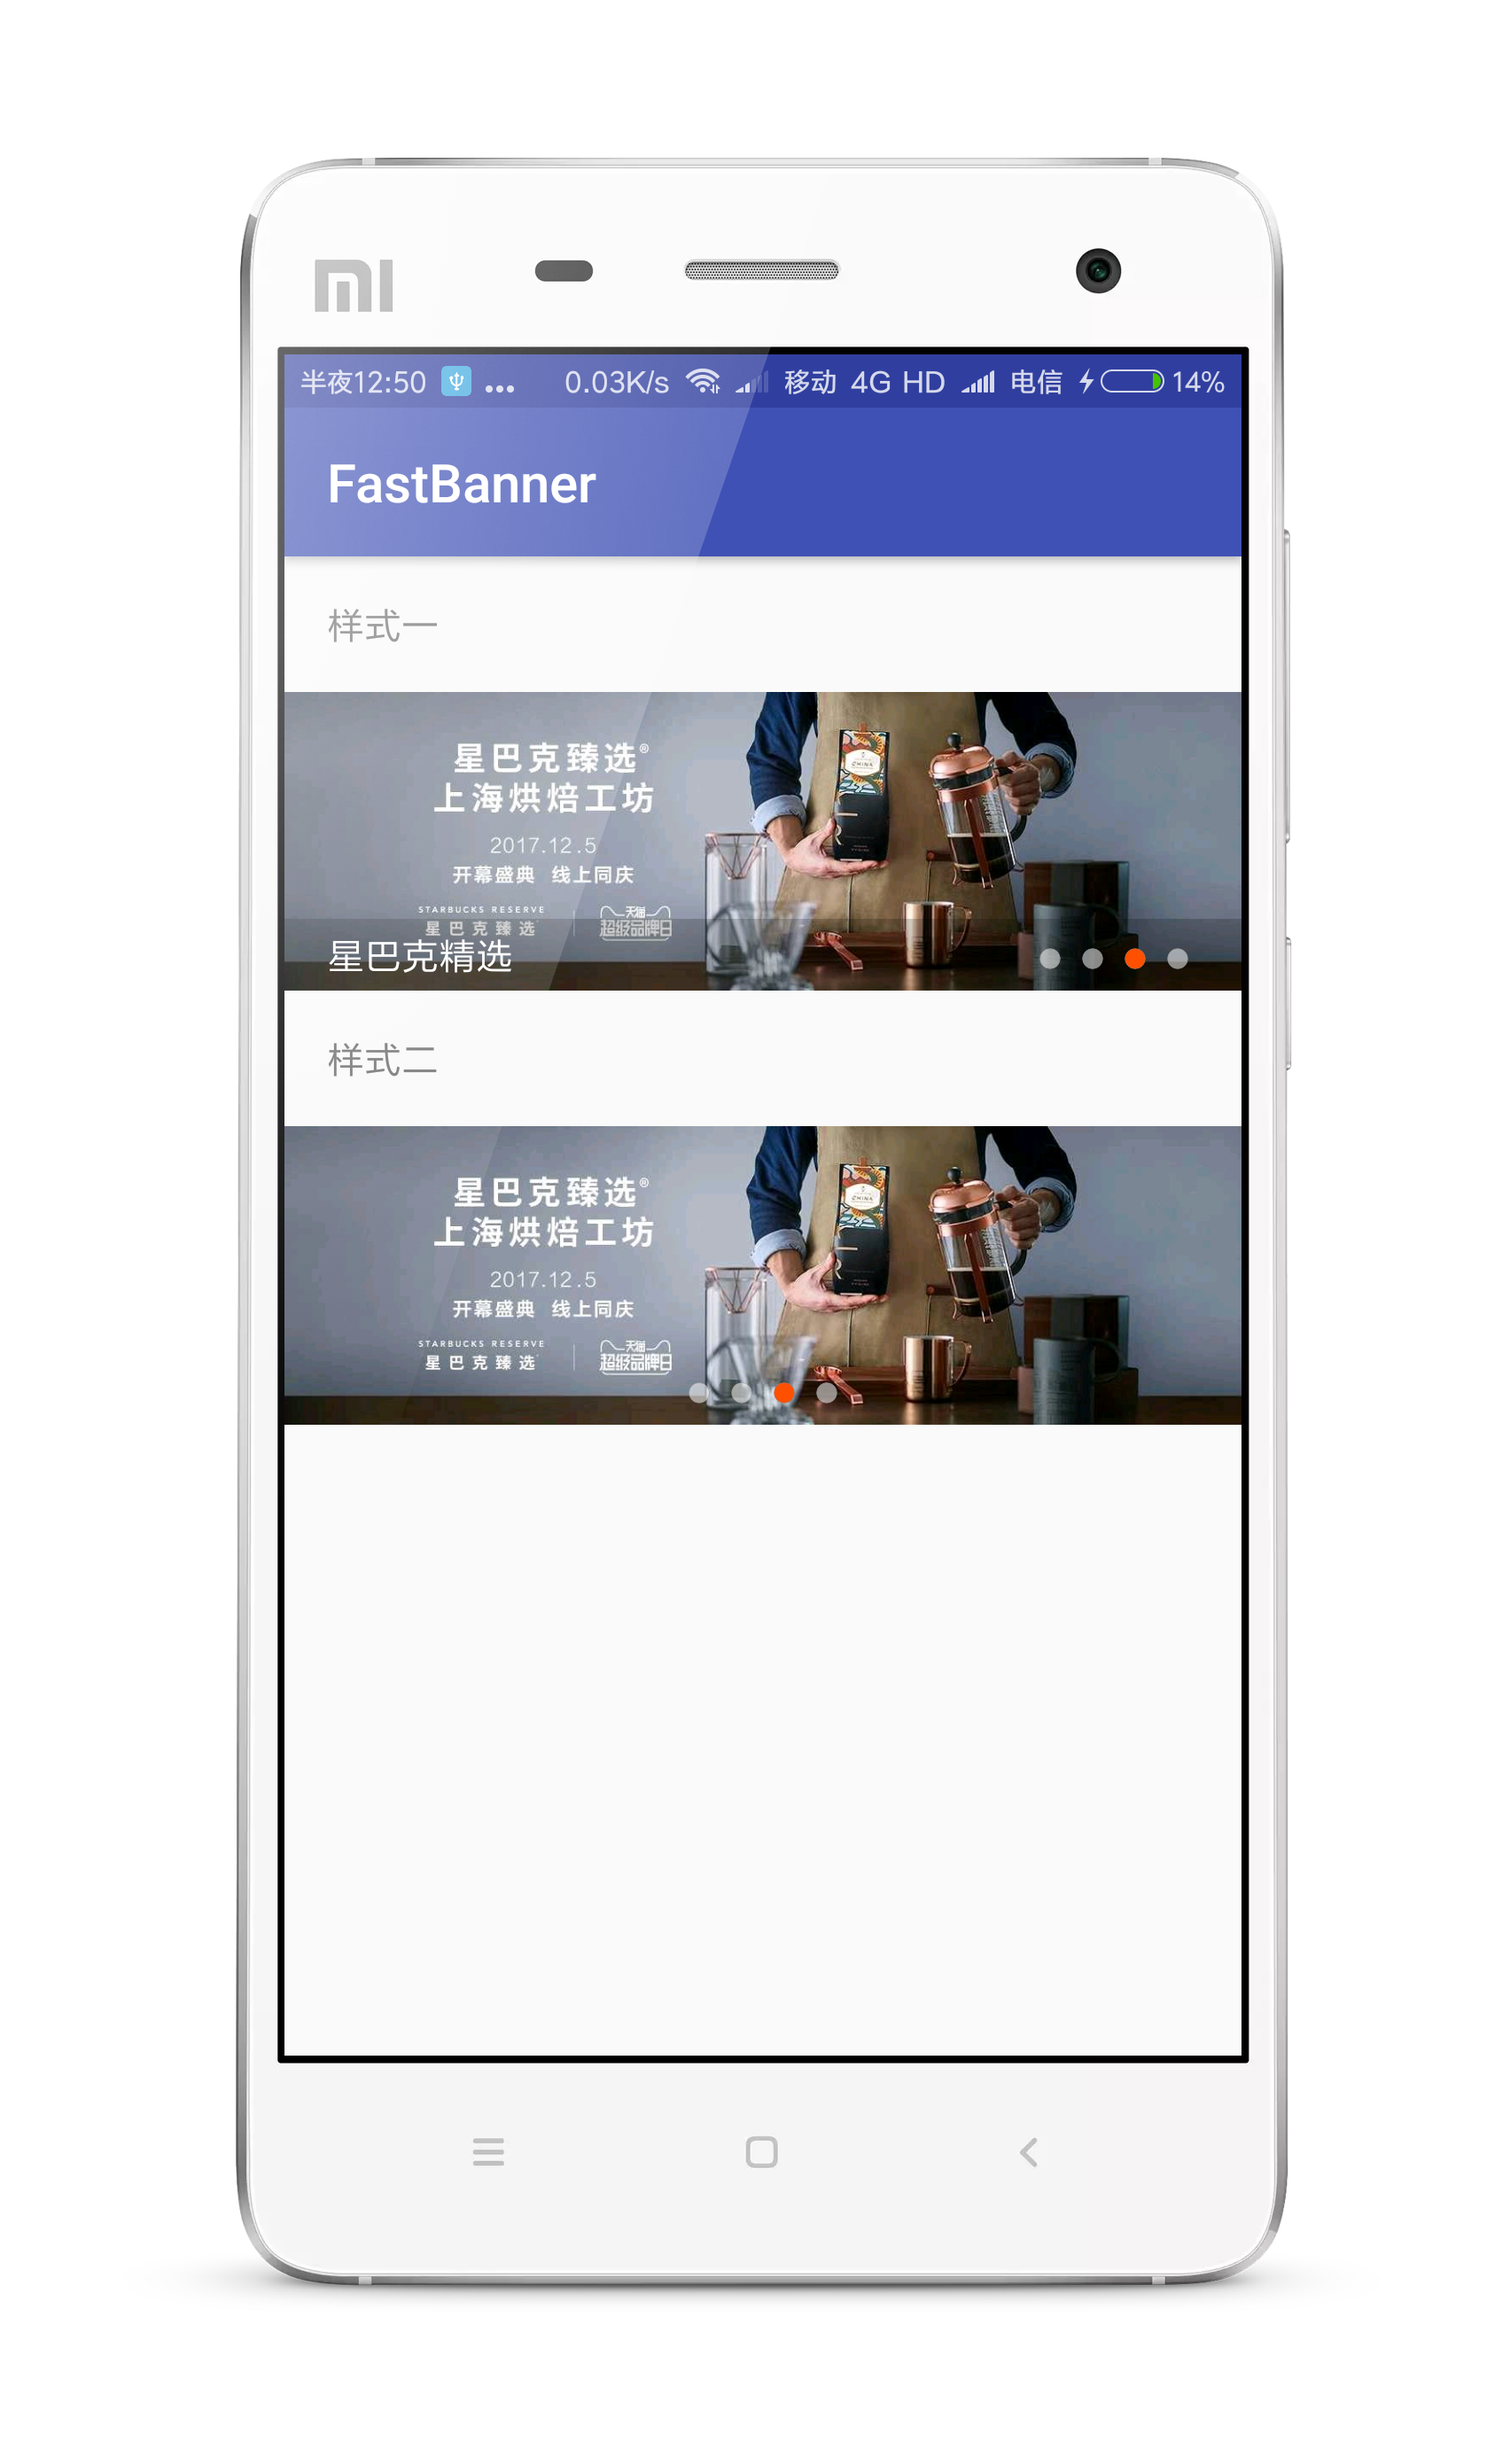
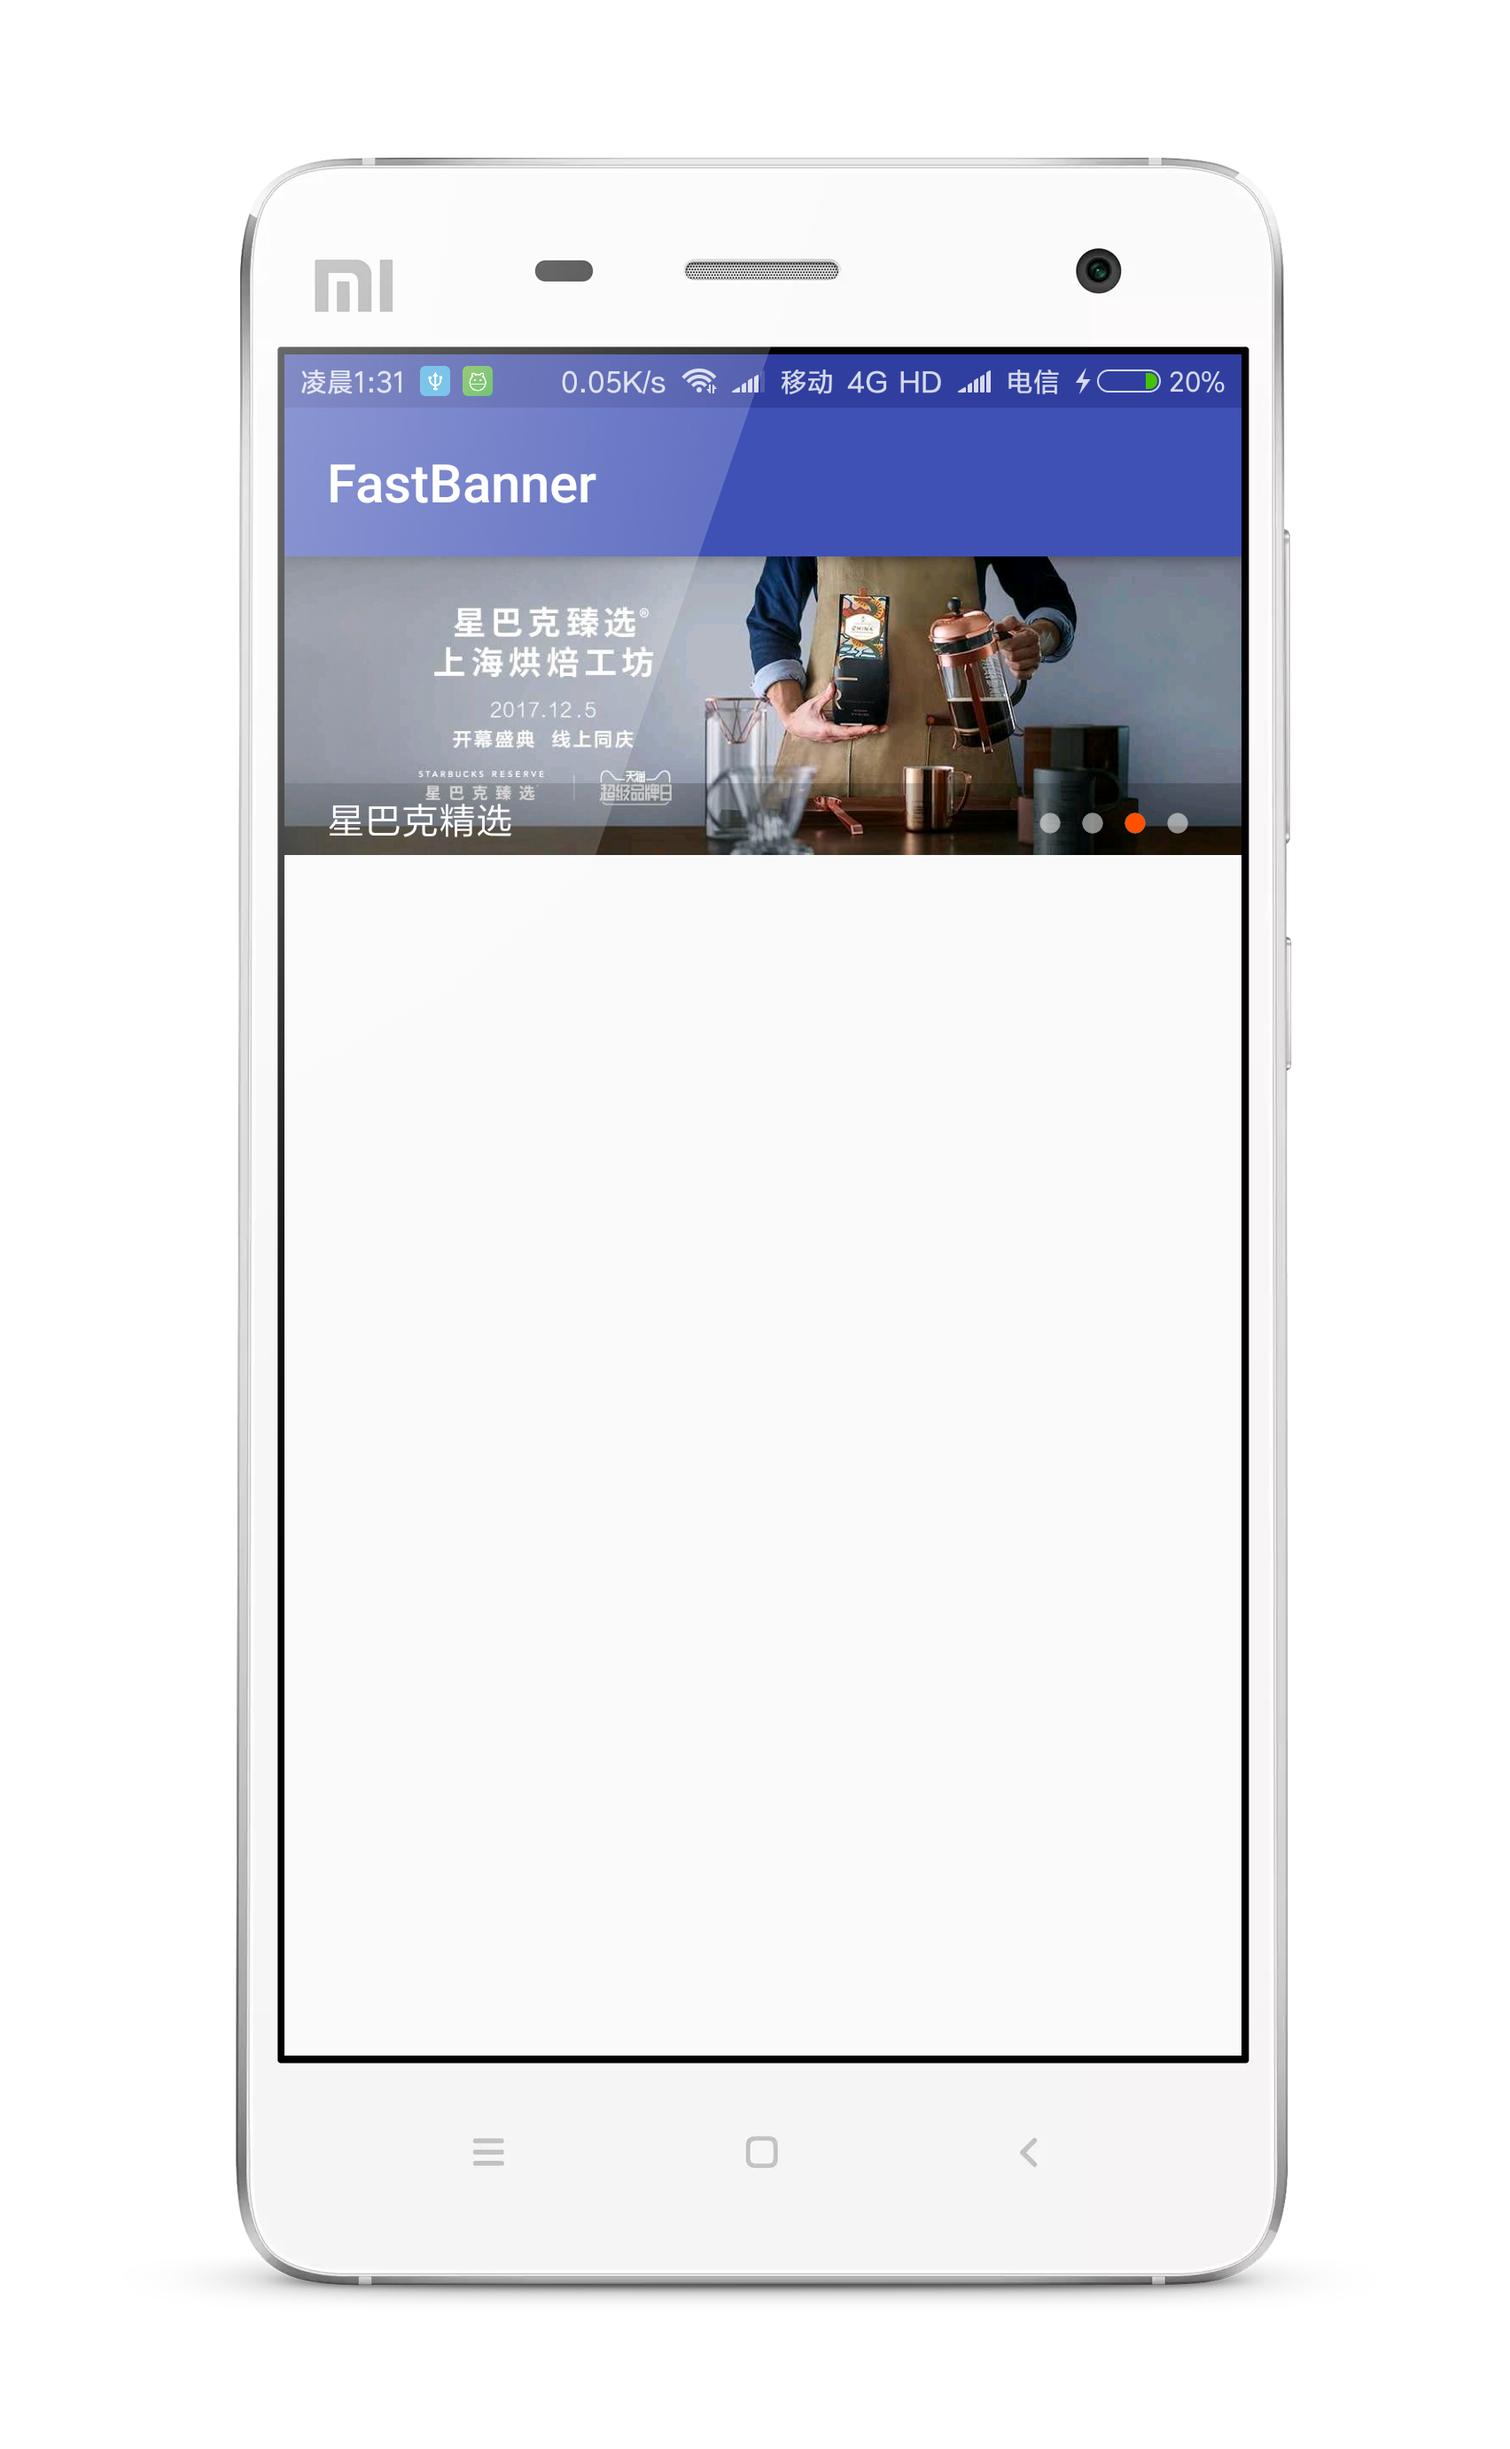
fastbanner

Changed region(s): [[0.1866, 0.2178, 0.8398, 0.5912], [0.2799, 0.1245, 0.3421, 0.1867], [0.4043, 0.1556, 0.4354, 0.1867]]

diff --git a/app/src/main/java/com/handsome/fastbanner/MainActivity.java b/app/src/main/java/com/handsome/fastbanner/MainActivity.java
@@ -1,5 +1,6 @@
 package com.handsome.fastbanner;
 
+import android.content.Intent;
 import android.support.v7.app.AppCompatActivity;
 import android.os.Bundle;
 import android.util.Log;
@@ -16,76 +17,17 @@ import java.util.List;
 
 public class MainActivity extends AppCompatActivity {
 
-    private List<String> url_list;
-    private List<String> title_list;
-
     @Override
     protected void onCreate(Bundle savedInstanceState) {
         super.onCreate(savedInstanceState);
         setContentView(R.layout.activity_main);
+    }
 
-        url_list = new ArrayList<>();
-        url_list.add("https://img.alicdn.com/imgextra/i4/100/TB2vKF0clLN8KJjSZPhXXc.spXa_!!100-0-yamato.jpg_q50.jpg");
-        url_list.add("https://img.alicdn.com/imgextra/i2/65/TB2qMK_b8bM8KJjSZFFXXaynpXa_!!65-0-luban.jpg_q50.jpg");
-        url_list.add("https://img.alicdn.com/imgextra/i3/174/TB2EMewf3fH8KJjy1zcXXcTzpXa_!!174-0-luban.jpg_q50.jpg");
-        url_list.add("https://gw.alicdn.com/imgextra/TB2FRATfCfD8KJjSszhXXbIJFXa_!!185-0-luban.jpg_q50.jpg");
-        title_list = new ArrayList<>();
-        title_list.add("会飞会游泳的茶林鸡");
-        title_list.add("上海天际线首发");
-        title_list.add("星巴克精选");
-        title_list.add("二次元集结日");
+    public void TitleAndIndication(View view) {
+        startActivity(new Intent(this, TitleAndIndicationActivity.class));
+    }
 
-        FastBanner fast_banner = (FastBanner) findViewById(R.id.fast_banner);
-        fast_banner.setAdapter(new BannerAdapter() {
-            @Override
-            public View getView(int position) {
-                ImageView imageView = new ImageView(MainActivity.this);
-                imageView.setScaleType(ImageView.ScaleType.FIT_XY);
-                Glide.with(MainActivity.this).load(url_list.get(position)).into(imageView);
-                return imageView;
-            }
-
-            @Override
-            public int getCount() {
-                return url_list.size();
-            }
-
-            @Override
-            public void onClick(int position) {
-                Toast.makeText(MainActivity.this, "position:" + position, Toast.LENGTH_SHORT).show();
-            }
-
-            @Override
-            public String getTitle(int position) {
-                return title_list.get(position);
-            }
-
-            @Override
-            public boolean autoScroll() {
-                return true;
-            }
-        });
-
-
-        FastBanner fast_banner2 = (FastBanner) findViewById(R.id.fast_banner2);
-        fast_banner2.setAdapter(new BannerAdapter() {
-            @Override
-            public View getView(int position) {
-                ImageView imageView = new ImageView(MainActivity.this);
-                imageView.setScaleType(ImageView.ScaleType.FIT_XY);
-                Glide.with(MainActivity.this).load(url_list.get(position)).into(imageView);
-                return imageView;
-            }
-
-            @Override
-            public int getCount() {
-                return url_list.size();
-            }
-
-            @Override
-            public void onClick(int position) {
-                Toast.makeText(MainActivity.this, "position:" + position, Toast.LENGTH_SHORT).show();
-            }
-        });
+    public void Indication(View view) {
+        startActivity(new Intent(this, IndicationActivity.class));
     }
 }

diff --git a/app/src/main/java/com/handsome/fastbanner/TitleAndIndicationActivity.java b/app/src/main/java/com/handsome/fastbanner/TitleAndIndicationActivity.java
@@ -1,0 +1,68 @@
+package com.handsome.fastbanner;
+
+import android.support.v7.app.AppCompatActivity;
+import android.os.Bundle;
+import android.view.View;
+import android.widget.ImageView;
+import android.widget.Toast;
+
+import com.bumptech.glide.Glide;
+import com.handsome.library.adapter.BannerAdapter;
+import com.handsome.library.banner.FastBanner;
+
+import java.util.ArrayList;
+import java.util.List;
+
+public class TitleAndIndicationActivity extends AppCompatActivity {
+
+    private List<String> url_list;
+    private List<String> title_list;
+
+    @Override
+    protected void onCreate(Bundle savedInstanceState) {
+        super.onCreate(savedInstanceState);
+        setContentView(R.layout.activity_title_adn_indication);
+
+        url_list = new ArrayList<>();
+        url_list.add("https://img.alicdn.com/imgextra/i4/100/TB2vKF0clLN8KJjSZPhXXc.spXa_!!100-0-yamato.jpg_q50.jpg");
+        url_list.add("https://img.alicdn.com/imgextra/i2/65/TB2qMK_b8bM8KJjSZFFXXaynpXa_!!65-0-luban.jpg_q50.jpg");
+        url_list.add("https://img.alicdn.com/imgextra/i3/174/TB2EMewf3fH8KJjy1zcXXcTzpXa_!!174-0-luban.jpg_q50.jpg");
+        url_list.add("https://gw.alicdn.com/imgextra/TB2FRATfCfD8KJjSszhXXbIJFXa_!!185-0-luban.jpg_q50.jpg");
+        title_list = new ArrayList<>();
+        title_list.add("会飞会游泳的茶林鸡");
+        title_list.add("上海天际线首发");
+        title_list.add("星巴克精选");
+        title_list.add("二次元集结日");
+
+        FastBanner fast_banner = (FastBanner) findViewById(R.id.fast_banner);
+        fast_banner.setAdapter(new BannerAdapter() {
+            @Override
+            public View getView(int position) {
+                ImageView imageView = new ImageView(TitleAndIndicationActivity.this);
+                imageView.setScaleType(ImageView.ScaleType.FIT_XY);
+                Glide.with(TitleAndIndicationActivity.this).load(url_list.get(position)).into(imageView);
+                return imageView;
+            }
+
+            @Override
+            public int getCount() {
+                return url_list.size();
+            }
+
+            @Override
+            public void onClick(int position) {
+                Toast.makeText(TitleAndIndicationActivity.this, "position:" + position, Toast.LENGTH_SHORT).show();
+            }
+
+            @Override
+            public String getTitle(int position) {
+                return title_list.get(position);
+            }
+
+            @Override
+            public boolean autoScroll() {
+                return true;
+            }
+        });
+    }
+}

diff --git a/app/src/main/java/com/handsome/fastbanner/IndicationActivity.java b/app/src/main/java/com/handsome/fastbanner/IndicationActivity.java
@@ -1,0 +1,51 @@
+package com.handsome.fastbanner;
+
+import android.support.v7.app.AppCompatActivity;
+import android.os.Bundle;
+import android.view.View;
+import android.widget.ImageView;
+import android.widget.Toast;
+
+import com.bumptech.glide.Glide;
+import com.handsome.library.adapter.BannerAdapter;
+import com.handsome.library.banner.FastBanner;
+
+import java.util.ArrayList;
+
+public class IndicationActivity extends AppCompatActivity {
+
+    private ArrayList<String> url_list;
+
+    @Override
+    protected void onCreate(Bundle savedInstanceState) {
+        super.onCreate(savedInstanceState);
+        setContentView(R.layout.activity_indication);
+
+        url_list = new ArrayList<>();
+        url_list.add("https://gw.alicdn.com/imgextra/i1/155/TB2LJaYfwLD8KJjSszeXXaGRpXa_!!155-0-luban.jpg_q50.jpg");
+        url_list.add("https://img.alicdn.com/imgextra/i1/67/TB2KRpQgNPI8KJjSspfXXcCFXXa_!!67-0-yamato.jpg_q50.jpg");
+        url_list.add("https://aecpm.alicdn.com/simba/img/TB14ab1KpXXXXclXFXXSutbFXXX.jpg_q50.jpg");
+        url_list.add("https://img.alicdn.com/imgextra/i2/133/TB2pt5zb1LM8KJjSZFqXXa7.FXa_!!133-0-luban.jpg_q50.jpg");
+
+        FastBanner fast_banner2 = (FastBanner) findViewById(R.id.fast_banner);
+        fast_banner2.setAdapter(new BannerAdapter() {
+            @Override
+            public View getView(int position) {
+                ImageView imageView = new ImageView(IndicationActivity.this);
+                imageView.setScaleType(ImageView.ScaleType.FIT_XY);
+                Glide.with(IndicationActivity.this).load(url_list.get(position)).into(imageView);
+                return imageView;
+            }
+
+            @Override
+            public int getCount() {
+                return url_list.size();
+            }
+
+            @Override
+            public void onClick(int position) {
+                Toast.makeText(IndicationActivity.this, "position:" + position, Toast.LENGTH_SHORT).show();
+            }
+        });
+    }
+}

diff --git a/library/src/main/java/com/handsome/library/view/BannerViewPager.java b/library/src/main/java/com/handsome/library/view/BannerViewPager.java
@@ -53,6 +53,7 @@ public class BannerViewPager extends ViewPager {
     public void setAdapter(BannerAdapter adapter) {
         this.mBannerAdapter = adapter;
         setAdapter(new BannerPagerAdapter());
+        setCurrentItem(mBannerAdapter.getCount()*1000);
 
         if (mBannerAdapter.autoScroll()) {
             startRoll();

diff --git a/README.md b/README.md
@@ -27,7 +27,7 @@ Add the dependency
 
 ```
 dependencies {
-	compile 'com.github.AndroidHensen:FastBanner:1.0'
+	compile 'com.github.AndroidHensen:FastBanner:1.0.1'
 }
 ```
 
@@ -103,6 +103,8 @@ fast_banner.setAdapter(new BannerAdapter() {
 
 # Changelog
 
+* 1.0.1
+    * Add the left and right allows an infinite loop
 * 1.0
 	* Initial release
 	
